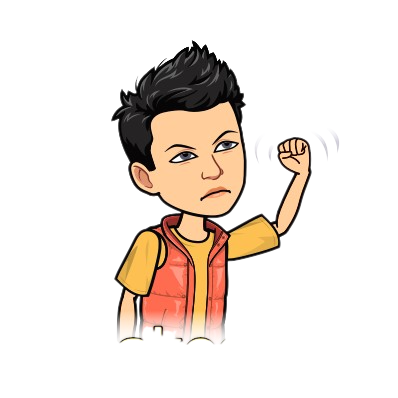
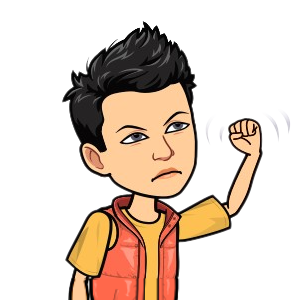
More level2 graphics

diff --git a/src/lib/scripts/level2/index.ts b/src/lib/scripts/level2/index.ts
@@ -99,63 +99,63 @@ const script: Script = {
         },
         {
             id: 8,
-            speakers: ['Bot Buddy'],
+            speakers: ['', 'Bot Buddy'],
             dialog: 'Hello, I am Bot Buddy. What\'s your name? Why isn\'t the car working for you?',
-            avatars: ['/img/characters/bot-buddy/bot-buddy-happy.png', '/img/characters/level-2/boy/boy_sad-removebg-preview.png'],
+            avatars: ['/img/characters/level-2/boy/boy_sad_flipped-removebg-preview.png', '/img/characters/bot-buddy/bot-buddy-happy.png'],
             background: '/img/backgrounds/level2/school6.png',
             audio: '/audio/level1/bot_buddy/bot_buddy_l2s8.wav',
-            pos: 'left'
+            pos: 'right'
         },
         {
             id: 9,
-            speakers: ['Kelvin'],
+            speakers: ['Kelvin', ''],
             dialog: 'Hi, I\'m Kelvin. These self-driving cars never work for me except when I\'m with my parents. It\'s so frustrating! It only works for some of my friends.',
-            avatars: ['/img/characters/bot-buddy/bot-buddy-happy.png', '/img/characters/level-2/boy/boy_fist-removebg-preview.png'],
+            avatars: ['/img/characters/level-2/boy/boy_fist-removebg-preview.png', '/img/characters/bot-buddy/bot-buddy-happy.png'],
             background: '/img/backgrounds/level2/school6.png',
             audio: '/audio/level1/bot_buddy/bot_buddy_l2s9.wav',
             pos: 'right'
         },
         {
             id: 10,
-            speakers: ['Kelvin'],
+            speakers: ['Kelvin', ''],
             dialog: 'Today I have soccer practice, and I\'m going to be late…AGAIN!',
-            avatars: ['/img/characters/bot-buddy/bot-buddy-happy.png', '/img/characters/level-2/kid.png'],
+            avatars: [ '/img/characters/level-2/boy/boy_frustrated_flipped-removebg-preview.png', '/img/characters/bot-buddy/bot-buddy-happy.png'],
             background: '/img/backgrounds/level2/school6.png',
             audio: '/audio/level1/bot_buddy/bot_buddy_l2s10.wav',
-            pos: 'right'
+            pos: 'left'
         },
         {
             id: 11,
-            speakers: ['Bot Buddy'],
+            speakers: ['', 'Bot Buddy'],
             dialog: 'Don\'t worry! The SPOT team is here to help!',
-            avatars: ['/img/characters/bot-buddy/bot-buddy-happy.png', '/img/characters/level-2/kid.png'],
+            avatars: ['/img/characters/level-2/boy/boy_sad_flipped-removebg-preview.png', '/img/characters/bot-buddy/bot-buddy-happy.png'],
             background: '/img/backgrounds/level2/school6.png',
             audio: '/audio/level1/bot_buddy/bot_buddy_l2s11.wav',
             pos: 'left'
         },
         {
             id: 12,
-            speakers: ['Kelvin'],
+            speakers: ['Kelvin', ''],
             dialog: 'Umm, the what?',
-            avatars: ['/img/characters/bot-buddy/bot-buddy-happy.png', '/img/characters/level-2/kid.png'],
+            avatars: ['/img/characters/level-2/boy/boy_hmm_flipped-removebg-preview.png', '/img/characters/bot-buddy/bot-buddy-happy.png'],
             background: '/img/backgrounds/level2/school6.png',
             audio: '/audio/level1/bot_buddy/bot_buddy_l2s12.wav',
             pos: 'right'
         },
         {
             id: 13,
-            speakers: ['Bot Buddy'],
+            speakers: ['', 'Bot Buddy'],
             dialog: 'The... the.. Serving People on Transportation Team!',
-            avatars: ['/img/characters/bot-buddy/bot-buddy-happy.png', '/img/characters/level-2/kid.png'],
+            avatars: ['/img/characters/level-2/boy/boy_huh.png', '/img/characters/bot-buddy/bot-buddy-happy.png'],
             background: '/img/backgrounds/level2/school6.png',
             audio: '/audio/level1/bot_buddy/bot_buddy_l2s13.wav',
             pos: 'left'
         },
         {
             id: 14,
-            speakers: ['Bot Buddy'],
+            speakers: ['', 'Bot Buddy'],
             dialog: 'Yes, that is definitely who we work for! We are not secret agents or anything like that...',
-            avatars: ['/img/characters/bot-buddy/bot-buddy-happy.png', '/img/characters/level-2/kid.png'],
+            avatars: ['/img/characters/level-2/boy/boy_huh.png', '/img/characters/bot-buddy/bot-buddy-happy.png'],
             background: '/img/backgrounds/level2/school6.png',
             audio: '/audio/level1/bot_buddy/bot_buddy_l2s14.wav',
             pos: 'left'
@@ -172,9 +172,9 @@ const script: Script = {
         },
         {
             id: 16,
-            speakers: ['Bot Buddy'],
+            speakers: ['', 'Bot Buddy'],
             dialog: 'Let\'s test the self-driving car. Agent, could you try to scan your face and see if this car works for you?',
-            avatars: ['/img/characters/bot-buddy/bot-buddy-happy.png'],
+            avatars: ['', '/img/characters/bot-buddy/bot-buddy-happy.png'],
             background: '/img/backgrounds/level2/school6.png',
             audio: '/audio/level1/bot_buddy/bot_buddy_l2s16.wav',
             pos: 'left'

diff --git a/src/lib/components/dialog/DialogBox.svelte b/src/lib/components/dialog/DialogBox.svelte
@@ -109,7 +109,7 @@
 				<div class="flex w-full items-end justify-between align-bottom">
 					{#each line.avatars as avatar, i}
 						<div class="mr-14 self-end">
-							<DialogBoxAvatar avatar={avatar} speaker={line.speakers[i]} avatarClass="relative -bottom-10 z-20" size={line.size}  />
+							<DialogBoxAvatar avatar={avatar} speaker={line.speakers[i]} avatarClass="relative {line.speakers[i]? " -bottom-10 " : ""} z-20" size={line.size}  />
 							{#if line.speakers[i]}
 								<div
 									class="bg-peach relative -bottom-4 -right-5 z-20 h-fit w-fit rounded px-3 text-3xl text-black">
